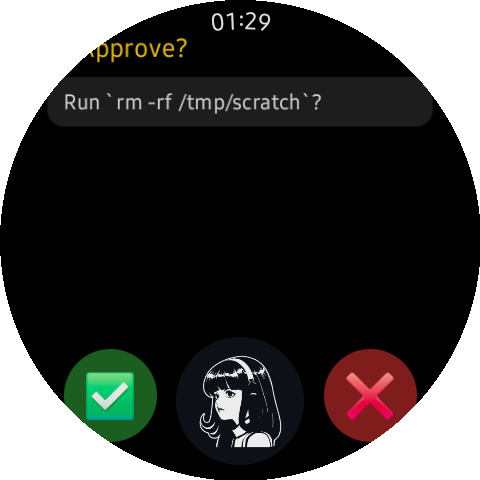
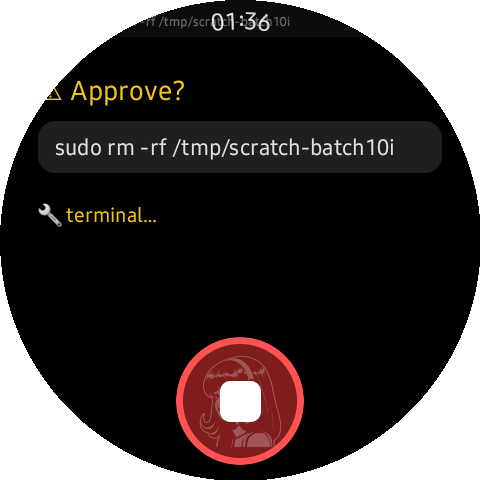
media: 33/34 re-shot from a REAL gated run — closes the approval-400 loop
batch10i rode the drained lane: fresh chat, manual, parked on the mono
command chip (33: heading + exact sudo line + wrench + live stop orb),
wrist approve answered with the gen triple and the fixed POST landed
FIRST TRY (finish run error=false) — 34 ships the same-thread settled
answer. Gate claims pinned to the new pixels (both PASS); README 33
caption now states the bottom-only flanks rule the frame shows. Masks
diff 0 against their raws; tesseract sweep clean.

diff --git a/tools/demo/vision_gate.py b/tools/demo/vision_gate.py
@@ -49,8 +49,8 @@ CLAIMS = {
  "30-settings-lane.png": "A dark home titled 'Ask Hermes — tap the orb to talk' shows the engraved avatar orb at the bottom-center surrounded by an open ring of circular lane buttons: green checkmark, keyboard, speaker, person, gear, list, and a brain icon.",
  "31-notify-plain.png": "A watch notification list shows a card titled 'wear-demo brief' at 22:16 with body 'Harbor tonight: 8°C, wind SW 12 km/h, aurora KP 6 — the plot is in the chat.', beneath a spirit avatar marked with a blue bell badge; a second 'Hermes tailnet' card below has its hostname and IP lines covered by mosaic bands.",
  "32-notify-approval.png": "An expanded watch notification shows the text 'Send the buyer reply to Hannah?' with '(draft ready)' and below it full-width pill buttons labeled 'Approve', 'Deny', and 'Open session'.",
- "33-approval-card.png": "A watch chat shows a pending approval: a yellow Approve heading at top, below it a dark rounded chip containing the mono command text 'Run rm -rf /tmp/scratch?', and at the bottom three round buttons in a row: a green checkmark, a dark spirit-orb with a drawn girl portrait, and a red X.",
- "34-approval-approved.png": "A watch chat shows a run continuing after approval: a yellow 'running...' status line, no approve or deny buttons, and a plain round avatar orb at the bottom.",
+ "33-approval-card.png": "A watch chat shows a pending approval mid-run: a yellow 'terminal…' wrench status line, a yellow Approve heading, a dark rounded chip holding the exact parked command 'sudo rm -rf /tmp/scratch-batch10i', and at the bottom a red-ringed orb with a white stop square.",
+ "34-approval-approved.png": "A watch chat shows the settled answer after an approval was granted: reply text stating 'Ran it; sudo failed' and that the directory likely still exists, no approve or deny buttons, and a plain round spirit-orb avatar below.",
  "35-splash-film.gif": "A circular-masked cinematic splash art frame: an antique silver pocket watch floating over dark blue night clouds and stars, its lid closed (the glow arrives later in the clip; the gate only sees frame zero).",
  "36-splash-picker.png": "A Display settings page ('‹ all settings', heading Display) shows 'Markdown rendering' toggled on, 'Launch splash' with the Video chip highlighted blue next to Static, a 'Pick media' button, and the caption 'Media: built-in'.",
  "37-voice-output.png": "A 'Voice out' settings page shows the '🔊 voice out' row with its toggle ON (yellow), a 'reply volume · wear-demo · 95%' slider, a 'quiet 0% ← loud 100% · per-agent' label, and a 'reply speed · 1.01×' slider.",

diff --git a/README.md b/README.md
@@ -90,7 +90,7 @@ One shipped capability per row — every image below is a real capture in
 | <img src="docs/screens/28-browser-opened.png" width="180"/> | <img src="docs/screens/54-tool-activity.png" width="180"/> |
 | **Links are links** — a markdown link in an answer is blue, underlined, tappable; here the watch's browser renders the repo's GitHub org profile, at full width, on the wrist. | **See what the tools did** — every run that touches a tool carries a collapsible activity card: step count, per-tool commands, done ✓. The desktop's verbosity box, on your wrist, persisted in the transcript. |
 | <img src="docs/screens/33-approval-card.png" width="180"/> | <img src="docs/screens/34-approval-approved.png" width="180"/> |
-| **Approvals, in-session** — a gated tool call pauses the run and the card rides with it: yellow heading, the *exact parked command* in a mono chip, and the answer on the orb flanks — ✅ left, ❌ right, no app-switching, no terminal. | **Tap OK — the run resumes** — the tool executes mid-run and the settled answer arrives in the same thread, seconds later. |
+| **Approvals, in-session** — a gated tool call pauses the run and the card rides with it: yellow heading, the *exact parked command* in a mono chip, and the red-ringed stop orb; scroll the card off-glass and the answer moves to the orb flanks — ✅ left, ❌ right, no app-switching, no terminal. | **Tap OK — the run resumes** — the tool executes mid-run and the settled answer arrives in the same thread, seconds later. |
 | <img src="docs/screens/08-sessions.png" width="180"/> | <img src="docs/screens/21-session-search.png" width="180"/> |
 | **Sessions, from your wrist** — every session your agent has, newest first, with a scrolling chip row to filter in one tap (`all` / per-agent / `💻 computer` — desktop-and-web lanes — / `archived`); one-tap new. | **Voice-or-type search, every session, every agent** — one query hits the gateway's full-text index; results come back across all your agents with the matching line quoted and the hit bracketed. |
 | <img src="docs/screens/56-approval-modes.png" width="180"/> | |

diff --git a/docs/DEMO.md b/docs/DEMO.md
@@ -239,12 +239,13 @@ newer session-authority gateways 400 the watch's approval POST unless the body i
 poll normalizes `pending_controls[]` + one retry-from-snapshot on 400). Shots: `02b` PASS
 (t02bJ — grid dead-center; first two frames were splash-swallowed and one re-mask read a
 stale square: masks must diff 0 against their input), `05` PASS, `48` PASS (aurora + audio
-sting), `56` PASS (NEW — `-e approvals 1`, zero code), `33` PASS — re-framed via the
-deterministic `approval_demo 1` inject in a FRESH chat (heading + mono chip + flanks all
-legible; the gate claim now matches the idle orb — no stop square without a live run),
-`34` keeps its real-run shot and still PASSes; `retry-from-snapshot ok` log proof awaits a
-free lane (owner traffic held 10e `queued` 20 min → cancelled; lesson: the demo inject is
-the deterministic card lane). Docs-VM:
+sting), `56` PASS (NEW — `-e approvals 1`, zero code), `33` PASS — re-shot from a REAL
+gated run (batch10i, fresh chat, card scrolled center: yellow heading + mono chip with the
+exact parked command + wrench status + live stop orb; the ✅/❌ flanks hide while the card
+is fully on-glass — the app's own bottom-only rule), `34` PASS — that same run's settled
+answer after the wrist approve: parked → answered with the gen triple → `finish run
+error=false`, the fixed POST accepted FIRST TRY (retry-from-snapshot held in reserve,
+normalizer unit-proven). Docs-VM:
 plugin/config shots re-plumbed to the DESKTOP-IN-WEB ticket lane (`webapp_open` in
 capture.sh) — the Wear Kit PANE itself is desktop-APP-only, now stated in that README. Hero:
 `demo-walkthrough-v0.8.0.gif` (splash first → 16 beats → end card; v0.7.0 purged per §9).
